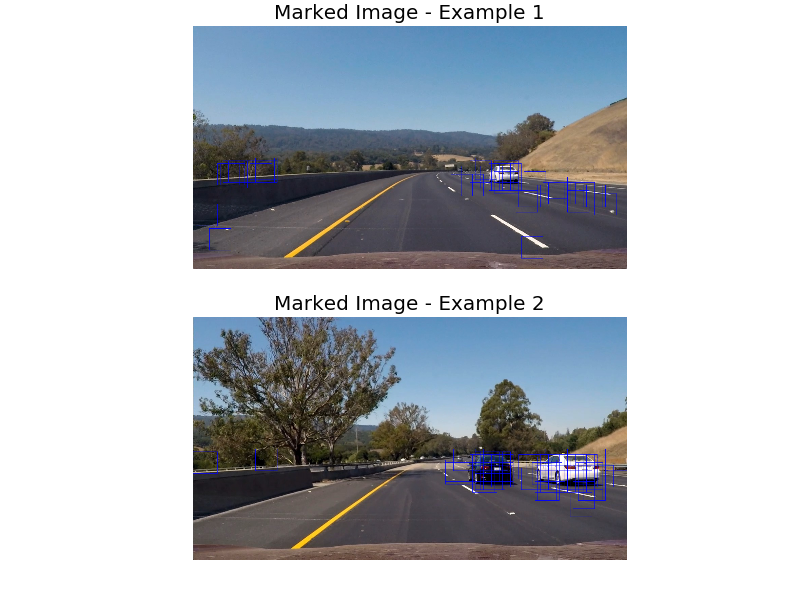
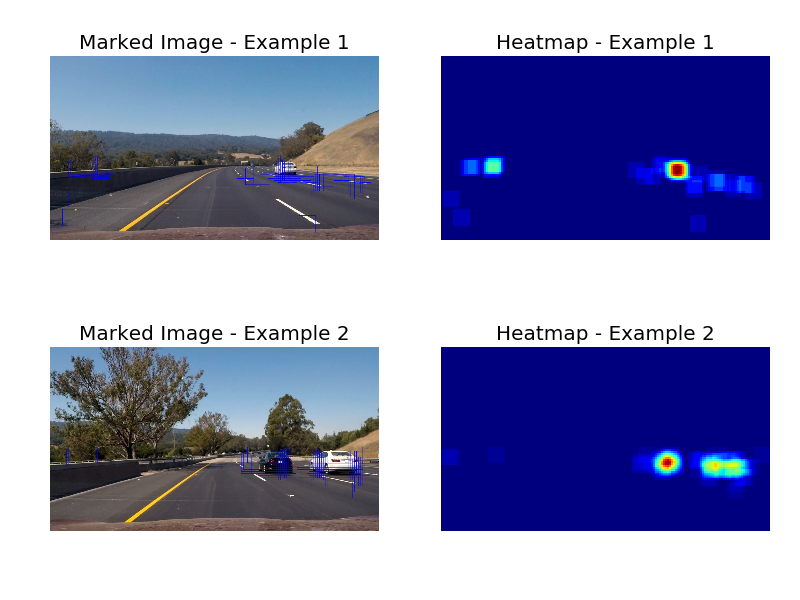
add labelCars()

diff --git a/vehicle_tracking/VehicleDetector.py b/vehicle_tracking/VehicleDetector.py
@@ -6,18 +6,37 @@ logger.info('VehicleDetector module loaded')
 from TrainingDataset import TrainingDataset
 from FeatureExtractor import FeatureExtractor
 from Classifier import Classifier
+from HeatMap import FilteredHeatMap
 
 import cv2
 import os
 import pickle
 import numpy as np
+from scipy.ndimage.measurements import label
+
+
+# from Ryan Keenan
+def draw_labeled_bboxes(img, labels):
+    for car_number in range(1, labels[1]+1):
+        nonzero = (labels[0] == car_number).nonzero()
+
+        nonzeroy = np.array(nonzero[0])
+        nonzerox = np.array(nonzero[1])
+
+        bbox = ((np.min(nonzerox), np.min(nonzeroy)), (np.max(nonzerox), np.max(nonzeroy)))
+
+        cv2.rectangle(img, bbox[0], bbox[1], (0,0,255),6)
+
+    return img
+
 
 class VehicleDetector():
 
 
 
     def __init__(self, car_path='data/vehicles/', noncar_path = 'data/non-vehicles/', enable_checkpoint=False , 
-                orient=9, pix_per_cell=8, cell_per_block=2,  spatial_shape=(16, 16), hist_bins=16 ):
+                orient=9, pix_per_cell=8, cell_per_block=2,  spatial_shape=(16, 16), hist_bins=16, 
+                filter_maxcount=5, heat_threhold=3, ):
 
         dataset = TrainingDataset(car_path, noncar_path)
         x_loc_list = dataset.getXLoc()
@@ -49,7 +68,7 @@ class VehicleDetector():
 
             self.vehicle_classifier = self.trainClassifier(x_loc_list, y)
 
-
+        self.filtered_heat = FilteredHeatMap(max_count=filter_maxcount, threshold=heat_threhold)
 
     def trainClassifier(self, x_loc_list, y):
 
@@ -75,7 +94,21 @@ class VehicleDetector():
 
         detected_windows = [win for (win, pred) in zip(windows, predictions) if (pred==1)]
 
-        return detected_windows
+        heatmap = np.zeros_like(img_bgr[:,:,0])
+
+        for a_win in detected_windows:
+
+            ul_pos = a_win[0]
+            br_pos = a_win[1]
+
+            ul_row, ul_col = ul_pos
+            br_row, br_col = br_pos
+
+            heatmap[ul_row:br_row, ul_col:br_col] +=1
+
+        self.filtered_heat.update(heatmap)
+
+        return detected_windows, heatmap
 
     def drawBoxes(self, img_bgr, windows):
 
@@ -93,6 +126,15 @@ class VehicleDetector():
 
         return bgr 
 
+    def labelCars(self, img_bgr):
+        self.scanImg(img_bgr)
+        labels = label( self.filtered_heat.getFilteredHeatmap() )
+
+        labled_img = draw_labeled_bboxes(np.copy(img_bgr), labels)
+
+        return labled_img, labels[0]  # return labeled image and label map
+
+
 
 def main():
 
@@ -105,32 +147,55 @@ def main():
 
 
 
-    car_detector = VehicleDetector(enable_checkpoint=True)
+    car_detector = VehicleDetector(enable_checkpoint=True, heat_threhold=15)
 
     print('\n\n######################### Video Frame Test ############################ \n')
     video_img_bgr = cv2.imread('data/test_images/test3.jpg')
 
-    detected_window = car_detector.scanImg(video_img_bgr)
-    print('Test frame 1: Number of detected windows: ', len(detected_window))
-    logger.info('Number of detected windows: {}.'.format(len(detected_window)) )
+    detected_windows, heatmap1 = car_detector.scanImg(video_img_bgr)
+    print('Test frame 1: Number of detected windows: ', len(detected_windows))
+    logger.info('Number of detected windows: {}.'.format(len(detected_windows)) )
 
-    img_bgr_marked = car_detector.drawBoxes(video_img_bgr, detected_window)
+    img_bgr_marked = car_detector.drawBoxes(video_img_bgr, detected_windows)
 
 
 
     video_img_bgr2 = cv2.imread('data/test_images/test6.jpg')
 
-    detected_window = car_detector.scanImg(video_img_bgr2)
-    print('Test frame 2: Number of detected windows: ', len(detected_window))
-    logger.info('Number of detected windows: {}.'.format(len(detected_window)) )
-    img_bgr_marked2 = car_detector.drawBoxes(video_img_bgr2, detected_window)
+    detected_windows, heatmap2 = car_detector.scanImg(video_img_bgr2)
+    print('Test frame 2: Number of detected windows: ', len(detected_windows))
+    logger.info('Number of detected windows: {}.'.format(len(detected_windows)) )
+    img_bgr_marked2 = car_detector.drawBoxes(video_img_bgr2, detected_windows)
 
 
 
     img_rgb_marked= cv2.cvtColor(img_bgr_marked, cv2.COLOR_BGR2RGB)
     img_rgb_marked2= cv2.cvtColor(img_bgr_marked2, cv2.COLOR_BGR2RGB)
     # video_img_rgb= cv2.cvtColor(video_img_bgr, cv2.COLOR_BGR2RGB)
-    visualize([[img_rgb_marked], [img_rgb_marked2]],[[ 'Marked Image - Example 1'], ['Marked Image - Example 2']], 'data/outputs/car_detection_windows.png', enable_show=True)
+    visualize(  [[img_rgb_marked, heatmap1], [img_rgb_marked2, heatmap2]], 
+                [[ 'Marked Image - Example 1', 'Heatmap - Example 1'], ['Marked Image - Example 2', 'Heatmap - Example 2']],
+                'data/outputs/car_detection_windows.png', enable_show=True)
+
+
+    print('--------- test label() ------ ')
+    video_img_bgr1 = cv2.imread('data/test_images/test3.jpg')
+
+    img_labled_bgr1, label_map1 = car_detector.labelCars(video_img_bgr1)
+
+    video_img_bgr2 = cv2.imread('data/test_images/test6.jpg')
+
+    img_labled_bgr2, label_map2 = car_detector.labelCars(video_img_bgr2)
+
+    img_labled_rgb1= cv2.cvtColor(img_labled_bgr1, cv2.COLOR_BGR2RGB)
+    img_labled_rgb2= cv2.cvtColor(img_labled_bgr2, cv2.COLOR_BGR2RGB)
+    # video_img_rgb= cv2.cvtColor(video_img_bgr, cv2.COLOR_BGR2RGB)
+    visualize(  [[img_labled_rgb1, label_map1], [img_labled_rgb2, label_map2]], 
+                [[ ' Example 1 - Labeled Image', 'Example 1 - Label Map'], ['Example 2 - Labeled Image ', 'Example 2 - Label Map ']],
+                'data/outputs/car_detection_labels.png', enable_show=True)
+
+
+
+
     print('\n**************** All Tests Passed! *******************')
 
 if __name__ == "__main__": 

diff --git a/vehicle_tracking/HeatMap.py b/vehicle_tracking/HeatMap.py
@@ -1,0 +1,69 @@
+import numpy as np
+
+class FilteredHeatMap():
+    def __init__(self, max_count=5, threshold=2):
+
+        self.HEATMAP_MAXCOUNT = max_count
+        self.THRESHOLD = threshold
+        self.heatmap_list=[]
+
+    def update(self, new_heatmap):
+        if len(self.heatmap_list) < self.HEATMAP_MAXCOUNT:
+            self.heatmap_list.append(new_heatmap)
+        else:
+            self.heatmap_list.pop(0) 
+            self.heatmap_list.append(new_heatmap)
+
+    def getFilteredHeatmap(self):
+        num_of_maps = len(self.heatmap_list)
+
+        total_heat = np.zeros_like(self.heatmap_list[0])
+        for heat in self.heatmap_list:
+            total_heat = np.add(total_heat,heat)
+
+        avg_heat = total_heat/num_of_maps
+
+
+        thresholded_heat = avg_heat
+        thresholded_heat[thresholded_heat<=self.THRESHOLD] = 0
+
+        return thresholded_heat
+
+
+
+def main():
+    ###########################
+    #### Heatmap test
+    ###########################
+
+    heatmap = FilteredHeatMap()
+
+    heat=[]
+    for i in range(3):
+        heat.append( np.array([[i,i, i], [i,i, i]]) )
+        heatmap.update(heat[i])
+
+    print('filtered heatmap: ', heatmap.getFilteredHeatmap())
+    assert np.sum(heatmap.getFilteredHeatmap()) == 0
+
+    heat=[]
+    for i in range(11):
+        heat.append( np.array([[i,i, i], [i,i, i]]) )
+        heatmap.update(heat[i])
+
+    print('filtered heatmap: ', heatmap.getFilteredHeatmap())
+
+
+
+    print('\n**************** All Tests Passed! *******************')
+
+if __name__ == "__main__": 
+    import time
+    from datetime import timedelta
+
+    time_start = time.time()
+
+    main()
+
+    time_end = time.time()
+    print("Time usage: " + str(timedelta(seconds=int( time_end - time_start))))
